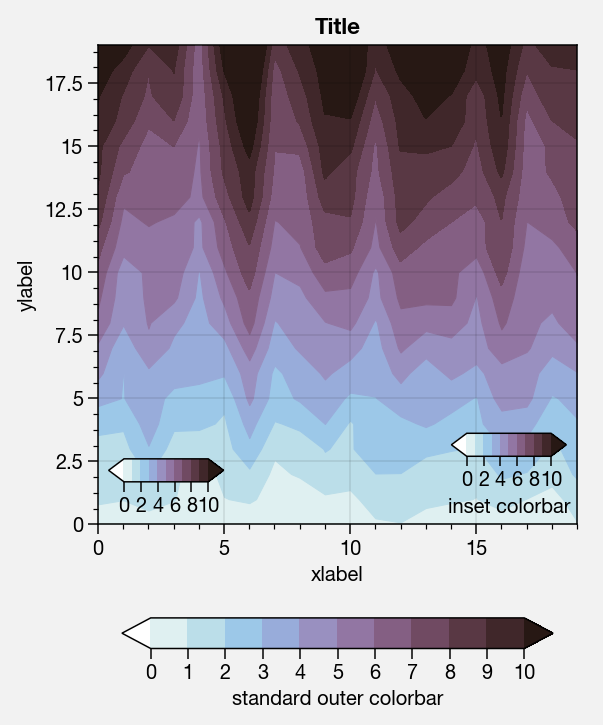
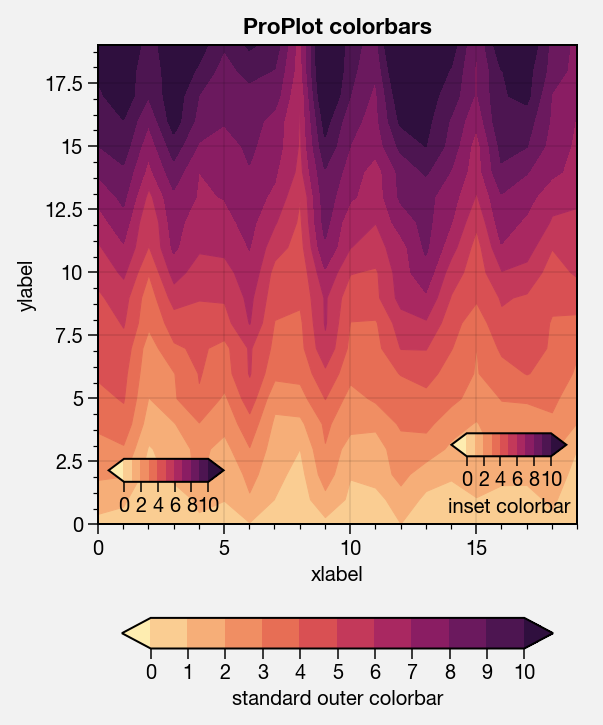
Colorbar ticks bugfix

diff --git a/proplot/colortools.py b/proplot/colortools.py
@@ -1905,8 +1905,8 @@ class BinNorm(mcolors.BoundaryNorm):
         # * For unique out-of-bounds colors, looks like [0, X, ..., 1 - X, 1]
         #   where the offset X equals step/len(levels).
         # First get coordinates
-        if not norm or type(norm) is mcolors.Normalize:
-            norm = lambda x: x # linear transition, no need to normalize
+        if not norm:
+            norm = mcolors.Normalize() # WARNING: Normalization to 0-1 must always take place first, required by colorbar_factory ticks manager.
         x_b = norm(levels)
         x_m = (x_b[1:] + x_b[:-1])/2 # get level centers after norm scaling
         y = (x_m - x_m.min())/(x_m.max() - x_m.min())
@@ -1914,9 +1914,8 @@ class BinNorm(mcolors.BoundaryNorm):
             y = y.filled(np.nan)
         y = y[np.isfinite(y)]
         # Account for out of bounds colors
-        # WARNING: For some reason, "clipping" doesn't work when applying
-        # norm, end up with unpredictable fill value if norm yields invalid
-        # value. Must clip manually.
+        # WARNING: For some reason must clip manually for LogNorm, or
+        # end up with unpredictable fill value, weird "out-of-bounds" colors
         offset = 0
         scale = 1
         eps = step/levels.size
@@ -1930,7 +1929,7 @@ class BinNorm(mcolors.BoundaryNorm):
         self._x_b = x_b
         self._y = y
         if isinstance(norm, mcolors.LogNorm):
-            self._norm_clip = (1e-250, None)
+            self._norm_clip = (5e-249, None)
         else:
             self._norm_clip = None
 

diff --git a/proplot/axes.py b/proplot/axes.py
@@ -3734,13 +3734,17 @@ def colorbar_factory(ax, mappable, values=None,
     #   using the mappable norm object; see: https://stackoverflow.com/a/20079644/4970632
     # * The set_minor_locator seems to be completely ignored depending on the colorbar
     #   in question, for whatever reason, and cb.minorticks_on() gives no control.
+    # NOTE: Re-apply major ticks here because for some reason minor ticks don't
+    # align with major ones for LogNorm. When we call set_ticks, labels (and
+    # numbers) are not changed; just re-adjust existing ticks to proper locations.
     minorvals = np.array(locators[1].tick_values(mappable.norm.vmin, mappable.norm.vmax))
     majorvals = np.array(locators[0].tick_values(mappable.norm.vmin, mappable.norm.vmax))
     if isinstance(mappable.norm, colortools.BinNorm):
         minorvals = mappable.norm._norm(minorvals) # use *child* normalizer
-        majorvals = mappable.norm._norm(majorvals) # use *child* normalizer
-    elif hasattr(mappable, 'levels'):
+        majorvals = mappable.norm._norm(majorvals)
+    else:
         minorvals = mappable.norm(minorvals)
+        majorvals = mappable.norm(majorvals) # use *child* normalizer
     minorvals = [tick for tick in minorvals if 0<=tick<=1]
     majorvals = [tick for tick in majorvals if 0<=tick<=1]
     axis.set_ticks(minorvals, minor=True)

diff --git a/docs/showcase.rst b/docs/showcase.rst
@@ -418,12 +418,12 @@ the axes is **filled** with a colorbar. See
     import proplot as plot
     import numpy as np
     f, ax = plot.subplots(bottompanel=True, tight=1, axwidth=2.5)
-    m = ax.contourf((np.random.rand(20,20)).cumsum(axis=0), extend='both', levels=np.linspace(0,10,11), cmap='glacial')
+    m = ax.contourf((np.random.rand(20,20)).cumsum(axis=0), extend='both', levels=np.linspace(0,10,11), cmap='matter')
     ax.format(xlabel='xlabel', ylabel='ylabel', xlim=(0,19), ylim=(0,19))
     ax.colorbar(m, ticks=2, label='inset colorbar')
     ax.colorbar(m, ticks=2, loc='lower left')
     f.bottompanel.colorbar(m, label='standard outer colorbar', length=0.9)
-    ax.format(suptitle='Title')
+    ax.format(suptitle='ProPlot colorbars')
 
 
 
@@ -448,9 +448,9 @@ corresponding colors.
     plot.rc.cycle = 'qual2'
     # plot.rc['axes.labelweight'] = 'bold'
     hs = ax.plot((np.random.rand(12,12)-0.45).cumsum(axis=0), lw=5)
-    ax.format(suptitle='Colorbar from line handles', xlabel='x axis', ylabel='y axis')
+    ax.format(suptitle='Line handle colorbar', xlabel='x axis', ylabel='y axis')
     f.bpanel.colorbar(hs, values=np.arange(0,6,0.5),
-                      label='"Legend" for lines that map to numeric values',
+                      label='Corresponding numeric values',
                       tickloc='bottom', # because why not?
                      )
 
@@ -460,10 +460,9 @@ corresponding colors.
 
 
 
-
-.. image:: showcase/showcase_27_2.png
+.. image:: showcase/showcase_27_1.png
    :width: 346px
-   :height: 312px
+   :height: 318px
 
 
 As shown below, when you call `~proplot.axes.PanelAxes.legend` on a
@@ -771,11 +770,9 @@ Helvetica as the default font
 
 Helvetica is the MATLAB default, but matplotlib does not come packaged
 with it and defaults to a font called “DejaVu Sans”. ProPlot adds back
-Helvetica and makes it the default.
-
-In my opinion, Helvetica is much more professional-looking than the
-DejaVu Sans. You can change the default font by modifying your
-``.proplotrc`` (see the `~proplot.rcmod` documentation).
+Helvetica and makes it the default. Helvetica is more
+professional-looking than the DejaVu Sans, in my biased opinion. See the
+`~proplot.rcmod` documentation for changing the default font.
 
 .. code:: ipython3
 
